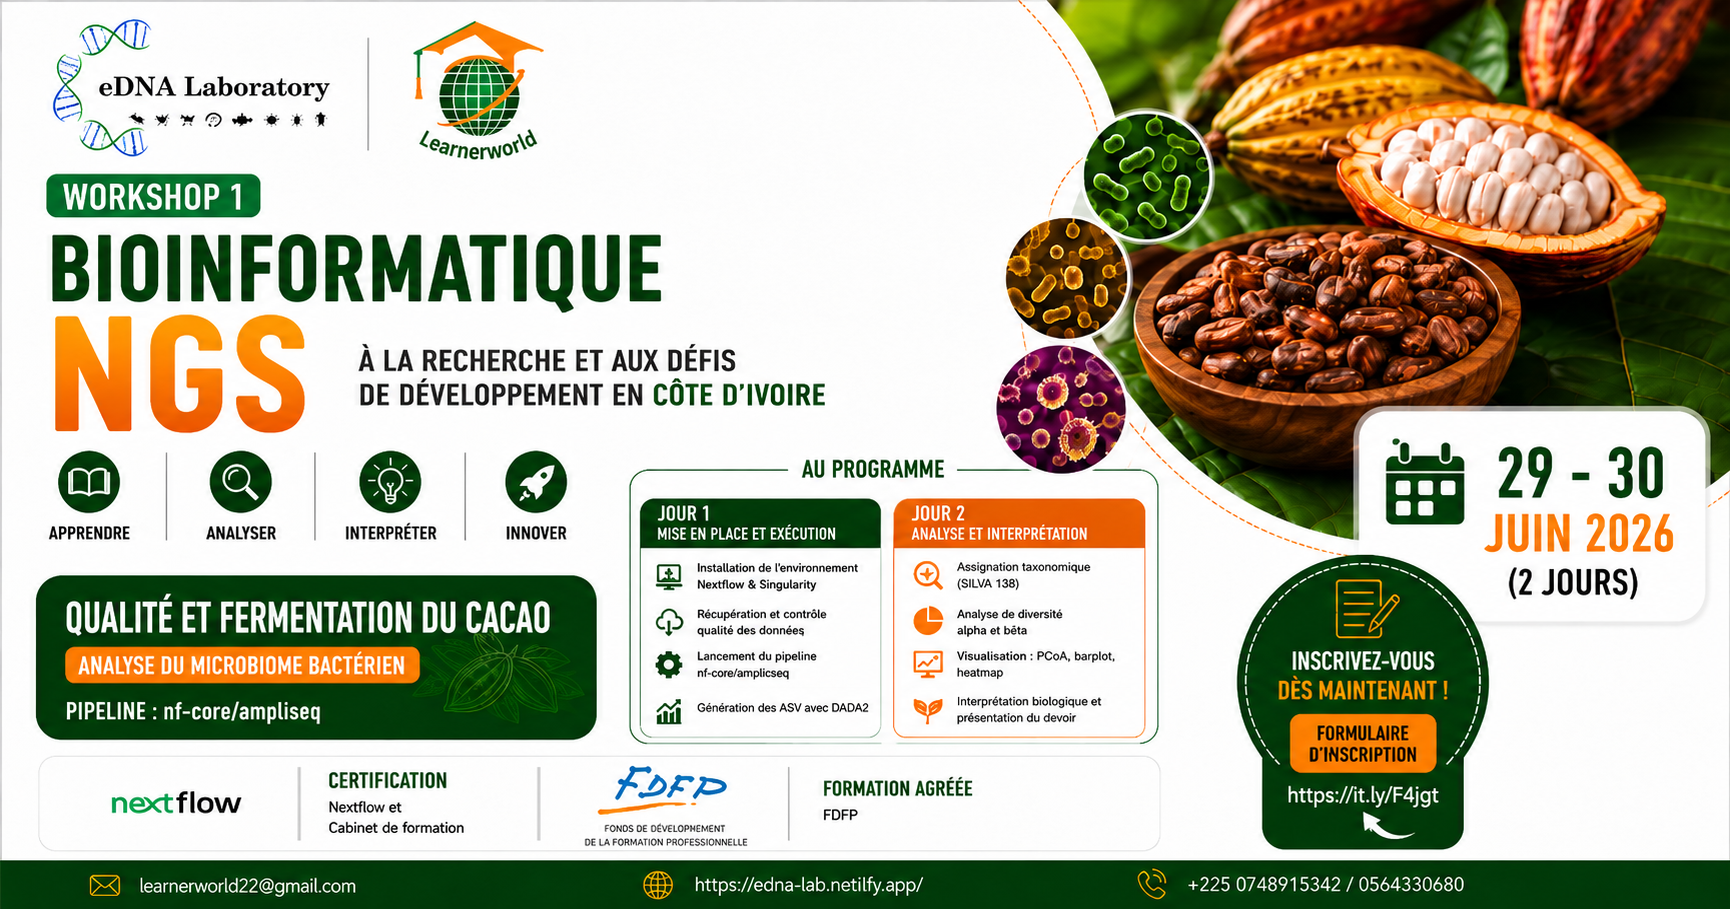
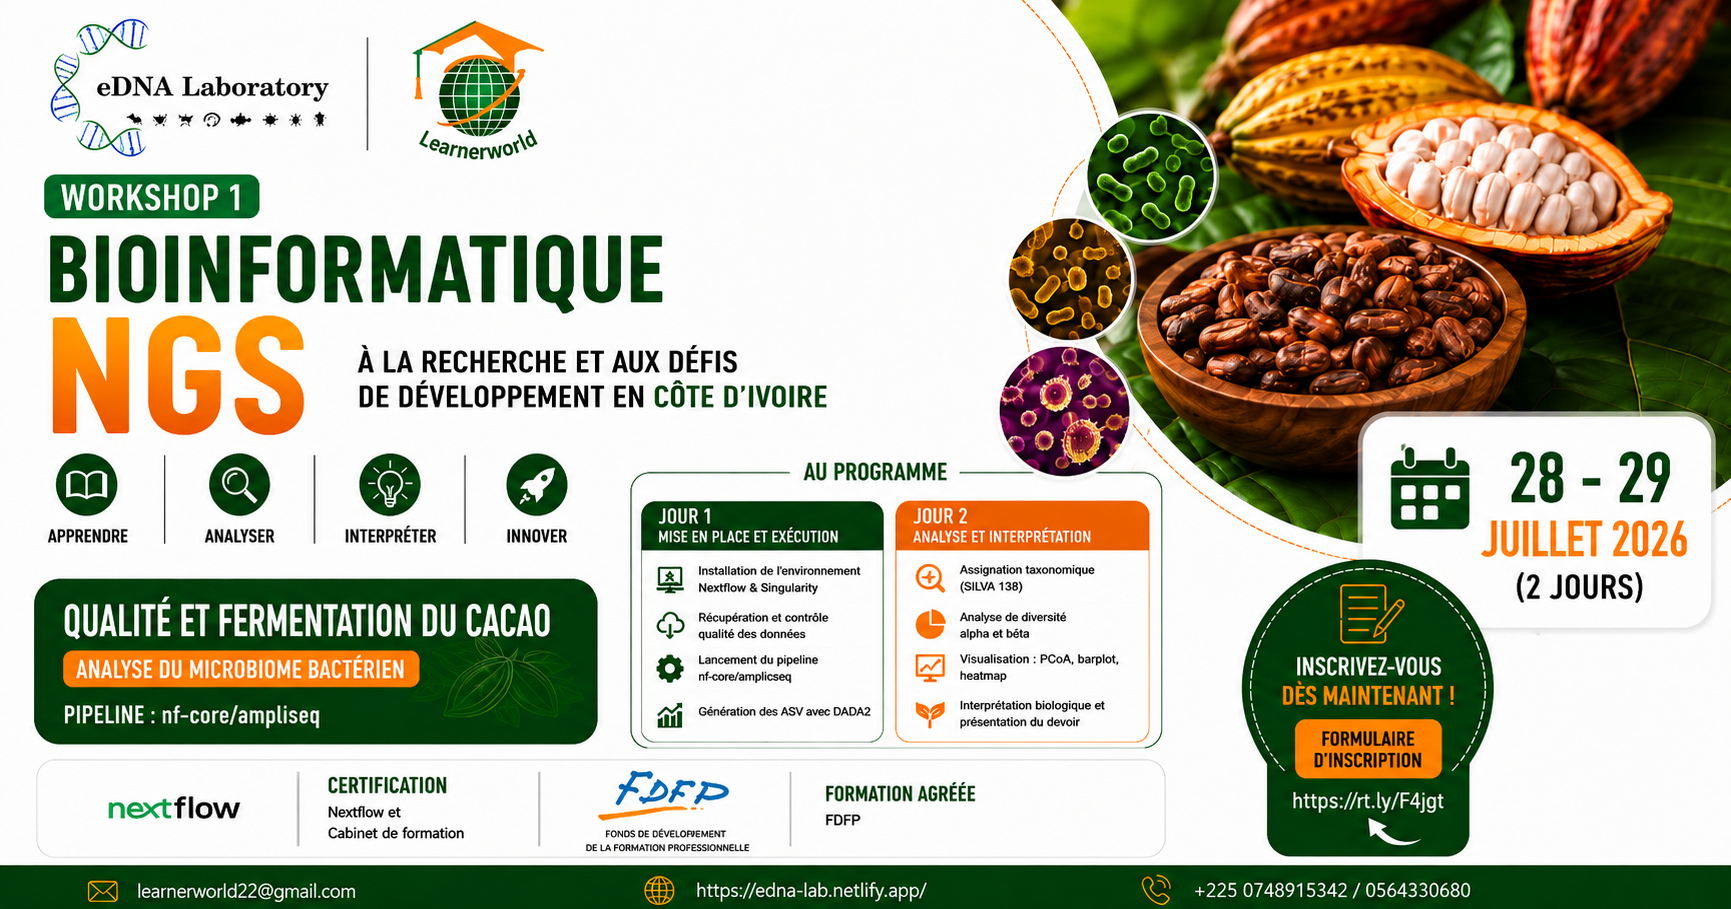
Atelier 1 reporté au 28-29 juil. + tarifs Early Bird + urgence inscription
- Date Atelier 1 : 29-30 juin → 28-29 juillet 2026 (brochure + index + JSON-LD + countdowns)
- Early Bird avant le 20 juillet : étudiant 30 000 FCFA, chercheur 50 000 FCFA
- Pack 3 ateliers -20% : étudiant 72 000 FCFA, chercheur 120 000 FCFA
- Bandeau Early Bird avec countdown temps restant sur index.html
- Prix barrés (anciens tarifs) dans les cartes workshop et pricing block
- Nouvelles affiches Amplicon 16S ARNr (portrait + paysage) mises à jour

diff --git a/index.html b/index.html
@@ -19,8 +19,8 @@
     "@context":"https://schema.org",
     "@type":"EducationEvent",
     "name":"Atelier 1 — Amplicon 16S ARNr : Analyse du Microbiome Bactérien",
-    "startDate":"2026-06-29",
-    "endDate":"2026-06-30",
+    "startDate":"2026-07-28",
+    "endDate":"2026-07-29",
     "eventStatus":"https://schema.org/EventScheduled",
     "eventAttendanceMode":"https://schema.org/OfflineEventAttendanceMode",
     "location":{"@type":"Place","name":"Université Nangui-Abrogoua","address":{"@type":"PostalAddress","addressLocality":"Abidjan","addressCountry":"CI"}},
@@ -1423,17 +1423,18 @@ footer {
             <div class="wc-spots">🔴 <strong>11 places restantes</strong> sur 15</div>
             <div class="wc-num wc-num-t" data-i18n="wk1_num">Atelier 1</div>
             <div class="wc-title" data-i18n="wk1_title">Amplicon 16S ARNr</div>
-            <div class="wc-date">📅 29–30 <span data-i18n="june">Juin</span> 2026</div>
+            <div class="wc-date">📅 28–29 <span data-i18n="july">Juillet</span> 2026</div>
             <div class="wc-pipe">nf-core/ampliseq · DADA2 · SILVA 138</div>
             <p class="wc-desc" data-i18n="wk1_desc">Microbiome bactérien du cacao fermenté en Côte d'Ivoire. Diversité alpha &amp; bêta, ordination PCoA.</p>
+            <div style="font-size:10px;font-weight:700;color:#F0A500;letter-spacing:0.07em;text-transform:uppercase;margin-bottom:6px;">⚡ Early Bird avant le 20 juil.</div>
             <div class="wc-price">
               <div class="wc-price-col">
                 <div class="wp-label" data-i18n="student">Étudiant</div>
-                <div class="wp-amount">50 000 FCFA</div>
+                <div class="wp-amount">30 000 FCFA</div>
               </div>
               <div class="wc-price-col">
-                <div class="wp-label" data-i18n="pro">Professionnel</div>
-                <div class="wp-amount">100 000 FCFA</div>
+                <div class="wp-label" data-i18n="pro">Chercheur</div>
+                <div class="wp-amount">50 000 FCFA</div>
               </div>
             </div>
             <a href="https://forms.gle/kicBrsVH9sR7fkA17" target="_blank" rel="noopener" class="wc-reg-btn">✍ <span data-i18n="reg_cta">S'inscrire</span></a>
@@ -1463,14 +1464,15 @@ footer {
             <div class="wc-date">📅 30–31 <span data-i18n="july">Juillet</span> 2026</div>
             <div class="wc-pipe">nf-core/rnaseq · DESeq2 · GO/KEGG</div>
             <p class="wc-desc" data-i18n="wk2_desc">Réponse immunitaire humaine au paludisme sévère à P. falciparum. Expression différentielle DESeq2.</p>
+            <div style="font-size:10px;font-weight:700;color:#F0A500;letter-spacing:0.07em;text-transform:uppercase;margin-bottom:6px;">⚡ Early Bird avant le 20 juil.</div>
             <div class="wc-price">
               <div class="wc-price-col">
                 <div class="wp-label" data-i18n="student">Étudiant</div>
-                <div class="wp-amount">50 000 FCFA</div>
+                <div class="wp-amount">30 000 FCFA</div>
               </div>
               <div class="wc-price-col">
-                <div class="wp-label" data-i18n="pro">Professionnel</div>
-                <div class="wp-amount">100 000 FCFA</div>
+                <div class="wp-label" data-i18n="pro">Chercheur</div>
+                <div class="wp-amount">50 000 FCFA</div>
               </div>
             </div>
             <a href="https://forms.gle/kicBrsVH9sR7fkA17" target="_blank" rel="noopener" class="wc-reg-btn">✍ <span data-i18n="reg_cta">S'inscrire</span></a>
@@ -1500,14 +1502,15 @@ footer {
             <div class="wc-date">📅 27–28 <span data-i18n="august">Août</span> 2026</div>
             <div class="wc-pipe">nf-core/mag · GTDB-Tk · CheckM</div>
             <p class="wc-desc" data-i18n="wk3_desc">Génomes assemblés &amp; dégradeurs de plastique · Lagune Ébrié, Côte d'Ivoire.</p>
+            <div style="font-size:10px;font-weight:700;color:#F0A500;letter-spacing:0.07em;text-transform:uppercase;margin-bottom:6px;">⚡ Early Bird avant le 20 juil.</div>
             <div class="wc-price">
               <div class="wc-price-col">
                 <div class="wp-label" data-i18n="student">Étudiant</div>
-                <div class="wp-amount">50 000 FCFA</div>
+                <div class="wp-amount">30 000 FCFA</div>
               </div>
               <div class="wc-price-col">
-                <div class="wp-label" data-i18n="pro">Professionnel</div>
-                <div class="wp-amount">100 000 FCFA</div>
+                <div class="wp-label" data-i18n="pro">Chercheur</div>
+                <div class="wp-amount">50 000 FCFA</div>
               </div>
             </div>
             <a href="https://forms.gle/kicBrsVH9sR7fkA17" target="_blank" rel="noopener" class="wc-reg-btn">✍ <span data-i18n="reg_cta">S'inscrire</span></a>
@@ -1518,33 +1521,53 @@ footer {
 
     <!-- Pricing block -->
     <div class="pricing-block reveal">
+
+      <!-- Early Bird Banner urgence -->
+      <div style="background:linear-gradient(135deg,rgba(240,165,0,0.18),rgba(240,165,0,0.06));border:2px solid rgba(240,165,0,0.5);border-radius:14px;padding:18px 22px;margin-bottom:18px;display:flex;align-items:center;gap:16px;flex-wrap:wrap;">
+        <div style="font-size:28px;flex-shrink:0;">⚡</div>
+        <div style="flex:1;min-width:200px;">
+          <div style="font-size:14px;font-weight:700;color:#F0A500;margin-bottom:3px;">Early Bird — Prix réduits jusqu'au 20 juillet 2026</div>
+          <div style="font-size:12px;color:rgba(255,255,255,0.65);">Étudiant : <strong style="color:#fff;">30 000 FCFA</strong> au lieu de 50 000 · Chercheur : <strong style="color:#fff;">50 000 FCFA</strong> au lieu de 100 000 · <span style="color:#F0A500;">−20% supplémentaire pour le pack 3 ateliers</span></div>
+        </div>
+        <div id="eb-countdown" style="background:rgba(240,165,0,0.15);border:1px solid rgba(240,165,0,0.3);border-radius:8px;padding:8px 14px;text-align:center;flex-shrink:0;">
+          <div style="font-size:10px;color:rgba(255,255,255,0.5);text-transform:uppercase;letter-spacing:0.07em;margin-bottom:3px;">Expire dans</div>
+          <div style="font-size:18px;font-weight:700;color:#F0A500;" id="eb-timer">--j --h</div>
+        </div>
+      </div>
+
       <div class="pricing-grid">
-        <div class="price-card std">
+        <div class="price-card std" style="border-color:rgba(240,165,0,0.3);">
+          <div style="font-size:10px;font-weight:700;color:#F0A500;letter-spacing:0.07em;text-transform:uppercase;margin-bottom:6px;">⚡ Early Bird</div>
           <div class="pc-profile" data-i18n="p1_prof">Étudiant (Master / Doctorat)</div>
-          <div class="pc-amount">50 000</div>
+          <div style="font-size:13px;text-decoration:line-through;opacity:0.4;color:#fff;margin-bottom:2px;">50 000</div>
+          <div class="pc-amount" style="color:#F0A500;">30 000</div>
           <div class="pc-unit">FCFA · <span data-i18n="per_ws">par atelier</span></div>
           <a href="https://forms.gle/kicBrsVH9sR7fkA17" target="_blank" rel="noopener" class="pc-btn" data-i18n="pc_btn">Choisir ce tarif →</a>
         </div>
-        <div class="price-card std">
-          <div class="pc-profile" data-i18n="p2_prof">Professionnel / Enseignant</div>
-          <div class="pc-amount">100 000</div>
+        <div class="price-card std" style="border-color:rgba(240,165,0,0.3);">
+          <div style="font-size:10px;font-weight:700;color:#F0A500;letter-spacing:0.07em;text-transform:uppercase;margin-bottom:6px;">⚡ Early Bird</div>
+          <div class="pc-profile" data-i18n="p2_prof">Chercheur / Enseignant</div>
+          <div style="font-size:13px;text-decoration:line-through;opacity:0.4;color:#fff;margin-bottom:2px;">100 000</div>
+          <div class="pc-amount" style="color:#F0A500;">50 000</div>
           <div class="pc-unit">FCFA · <span data-i18n="per_ws">par atelier</span></div>
           <a href="https://forms.gle/kicBrsVH9sR7fkA17" target="_blank" rel="noopener" class="pc-btn" data-i18n="pc_btn">Choisir ce tarif →</a>
         </div>
         <div class="price-card pack">
-          <div class="pack-ribbon">⭐ <span data-i18n="save20">Économisez 20%</span></div>
+          <div class="pack-ribbon">⭐ <span data-i18n="save20">−20% Pack 3</span></div>
           <div class="pc-profile" data-i18n="p3_prof">Pack 3 ateliers · Étudiant</div>
+          <div style="font-size:13px;text-decoration:line-through;opacity:0.4;color:#fff;margin-bottom:2px;">120 000</div>
+          <div class="pc-amount">72 000</div>
+          <div class="pc-unit">FCFA</div>
+          <div class="pc-eco" data-i18n="eco1">Économie : 18 000 FCFA</div>
+          <a href="https://forms.gle/kicBrsVH9sR7fkA17" target="_blank" rel="noopener" class="pc-btn" data-i18n="pc_btn">Choisir ce tarif →</a>
+        </div>
+        <div class="price-card pack">
+          <div class="pack-ribbon">🏛 FDFP · −20%</div>
+          <div class="pc-profile" data-i18n="p4_prof">Pack 3 ateliers · Chercheur</div>
+          <div style="font-size:13px;text-decoration:line-through;opacity:0.4;color:#fff;margin-bottom:2px;">240 000</div>
           <div class="pc-amount">120 000</div>
           <div class="pc-unit">FCFA</div>
-          <div class="pc-eco" data-i18n="eco1">Économie : 30 000 FCFA</div>
-          <a href="https://forms.gle/kicBrsVH9sR7fkA17" target="_blank" rel="noopener" class="pc-btn" data-i18n="pc_btn">Choisir ce tarif →</a>
-        </div>
-        <div class="price-card pack">
-          <div class="pack-ribbon">🏛 FDFP</div>
-          <div class="pc-profile" data-i18n="p4_prof">Pack 3 ateliers · Professionnel</div>
-          <div class="pc-amount">240 000</div>
-          <div class="pc-unit">FCFA</div>
-          <div class="pc-eco" data-i18n="eco2">Économie : 60 000 FCFA</div>
+          <div class="pc-eco" data-i18n="eco2">Économie : 30 000 FCFA</div>
           <a href="https://forms.gle/kicBrsVH9sR7fkA17" target="_blank" rel="noopener" class="pc-btn" data-i18n="pc_btn">Choisir ce tarif →</a>
         </div>
       </div>
@@ -2332,9 +2355,9 @@ function prefillQuote(service) {
   setTimeout(() => { const n = document.getElementById('f-name'); if (n) n.focus(); }, 400);
 }
 
-/* ── HERO COUNTDOWN (Atelier 1 — 29 juin 2026) ─── */
+/* ── HERO COUNTDOWN (Atelier 1 — 28 juillet 2026) ─── */
 (function(){
-  const target = new Date('2026-06-29T08:00:00');
+  const target = new Date('2026-07-28T08:00:00');
   const wrap = document.getElementById('hero-cd-wrap');
   function pad(n){ return String(n).padStart(2,'0'); }
   function tick(){
@@ -2355,7 +2378,7 @@ function prefillQuote(service) {
 /* ── COUNTDOWN ─────────────────────────────────── */
 (function() {
   const workshops = [
-    { id:'cd-wk1', date:'2026-06-29' },
+    { id:'cd-wk1', date:'2026-07-28' },
     { id:'cd-wk2', date:'2026-07-30' },
     { id:'cd-wk3', date:'2026-08-27' }
   ];
@@ -2368,6 +2391,22 @@ function prefillQuote(service) {
     else if (diff === 0) el.textContent = '🔴 Aujourd\'hui !';
     else el.style.display = 'none';
   });
+})();
+
+/* ── EARLY BIRD COUNTDOWN ──────────────────────── */
+(function(){
+  const deadline = new Date('2026-07-20T23:59:59');
+  const el = document.getElementById('eb-timer');
+  const wrap = document.getElementById('eb-countdown');
+  if(!el) return;
+  function tick(){
+    const diff = deadline - new Date();
+    if(diff <= 0){ if(wrap){ wrap.innerHTML='<div style="font-size:12px;color:rgba(255,255,255,0.5);">Offre expirée</div>'; } return; }
+    const d = Math.floor(diff/86400000);
+    const h = Math.floor((diff%86400000)/3600000);
+    el.textContent = d+'j '+String(h).padStart(2,'0')+'h';
+  }
+  tick(); setInterval(tick, 60000);
 })();
 
 /* ── FLIP CARD MOBILE TAP ──────────────────────── */

diff --git a/brochure_v3.html b/brochure_v3.html
@@ -238,21 +238,26 @@
       <div class="tp-desc">Santé publique, environnement, agroalimentaire — prise en charge FDFP possible pour les professionnels ivoiriens.</div>
     </div>
   </div>
+  <div style="display:inline-flex;align-items:center;gap:8px;background:rgba(240,165,0,0.15);border:1px solid rgba(240,165,0,0.4);border-radius:8px;padding:7px 14px;font-size:12px;font-weight:700;color:#F0A500;margin-bottom:14px;">
+    ⚡ Early Bird — Inscriptions avant le 20 juillet 2026
+  </div>
   <div class="price-row">
-    <div class="price-card">
+    <div class="price-card" style="border-color:rgba(240,165,0,0.3);">
       <div class="plabel">Étudiant · par atelier</div>
-      <div class="amount">50 000</div>
+      <div class="amount" style="font-size:20px;text-decoration:line-through;opacity:0.45;color:#fff;">50 000</div>
+      <div class="amount">30 000</div>
       <div class="sub">FCFA</div>
     </div>
-    <div class="price-card">
-      <div class="plabel">Professionnel · par atelier</div>
-      <div class="amount">100 000</div>
+    <div class="price-card" style="border-color:rgba(240,165,0,0.3);">
+      <div class="plabel">Chercheur · par atelier</div>
+      <div class="amount" style="font-size:20px;text-decoration:line-through;opacity:0.45;color:#fff;">100 000</div>
+      <div class="amount">50 000</div>
       <div class="sub">FCFA</div>
     </div>
     <div class="price-card pack-card">
       <div class="plabel">Pack 3 ateliers (−20%)</div>
-      <div class="amount">120 000</div>
-      <div class="sub">FCFA étudiant · 240 000 professionnel</div>
+      <div class="amount">72 000</div>
+      <div class="sub">FCFA étudiant · 120 000 chercheur</div>
     </div>
   </div>
 </header>
@@ -267,7 +272,7 @@
       <div>
         <div class="cal-num cal-num-t">Atelier 1</div>
         <div class="cal-title">Amplicon 16S ARNr</div>
-        <div class="cal-date">📅 29–30 Juin 2026</div>
+        <div class="cal-date">📅 28–29 Juillet 2026</div>
         <div class="cal-info">Microbiome bactérien du cacao fermenté en Côte d'Ivoire<br><span class="cal-pipe">nf-core/ampliseq · Base SILVA 138</span></div>
         <div class="cd-badge" id="br-cd1"></div>
       </div>
@@ -460,32 +465,77 @@
 <section class="section" style="background:rgba(255,255,255,0.01);border-top:1px solid rgba(255,255,255,0.05);">
   <p class="section-label">Tarification transparente</p>
   <h2 class="section-heading">Coût de la formation</h2>
-  <div class="tarif-grid">
-    <div class="tcard std">
-      <div class="tprof">Étudiant (Master / Doctorat)</div>
-      <div class="tamount">50 000</div>
-      <div class="tper">FCFA · par atelier</div>
+
+  <!-- Early Bird -->
+  <div style="border:2px solid rgba(240,165,0,0.45);border-radius:16px;padding:24px;margin-bottom:20px;background:rgba(240,165,0,0.06);">
+    <div style="display:flex;align-items:center;gap:10px;margin-bottom:16px;">
+      <span style="background:#F0A500;color:#0D1B2A;font-size:11px;font-weight:700;letter-spacing:0.08em;text-transform:uppercase;padding:4px 12px;border-radius:100px;">⚡ Early Bird</span>
+      <span style="font-size:13px;color:rgba(255,255,255,0.6);">Inscriptions reçues avant le <strong style="color:#F0A500;">20 juillet 2026</strong></span>
     </div>
-    <div class="tcard std">
-      <div class="tprof">Professionnel / Enseignant</div>
-      <div class="tamount">100 000</div>
-      <div class="tper">FCFA · par atelier</div>
-    </div>
-    <div class="tcard pack">
-      <div class="pack-ribbon">⭐ Économisez 20%</div>
-      <div class="tprof" style="margin-top:12px;">Pack 3 ateliers · Étudiant</div>
-      <div class="tamount tpack">120 000</div>
-      <div class="tper">FCFA</div>
-      <div class="teco">Économie : 30 000 FCFA</div>
-    </div>
-    <div class="tcard pack">
-      <div class="pack-ribbon">⭐ Prise en charge FDFP</div>
-      <div class="tprof" style="margin-top:12px;">Pack 3 ateliers · Professionnel</div>
-      <div class="tamount tpack">240 000</div>
-      <div class="tper">FCFA</div>
-      <div class="teco">Économie : 60 000 FCFA</div>
+    <div class="tarif-grid">
+      <div class="tcard std" style="border-color:rgba(240,165,0,0.3);">
+        <div class="tprof">Étudiant (Master / Doctorat)</div>
+        <div class="tamount" style="color:#F0A500;">30 000</div>
+        <div class="tper">FCFA · par atelier</div>
+        <div class="teco" style="margin-top:6px;">Au lieu de 50 000 FCFA</div>
+      </div>
+      <div class="tcard std" style="border-color:rgba(240,165,0,0.3);">
+        <div class="tprof">Chercheur / Enseignant</div>
+        <div class="tamount" style="color:#F0A500;">50 000</div>
+        <div class="tper">FCFA · par atelier</div>
+        <div class="teco" style="margin-top:6px;">Au lieu de 100 000 FCFA</div>
+      </div>
+      <div class="tcard pack">
+        <div class="pack-ribbon">⭐ −20% · Pack 3</div>
+        <div class="tprof" style="margin-top:12px;">Pack 3 ateliers · Étudiant</div>
+        <div class="tamount tpack">72 000</div>
+        <div class="tper">FCFA</div>
+        <div class="teco">Économie : 18 000 FCFA</div>
+      </div>
+      <div class="tcard pack">
+        <div class="pack-ribbon">⭐ Prise en charge FDFP</div>
+        <div class="tprof" style="margin-top:12px;">Pack 3 ateliers · Chercheur</div>
+        <div class="tamount tpack">120 000</div>
+        <div class="tper">FCFA</div>
+        <div class="teco">Économie : 30 000 FCFA</div>
+      </div>
     </div>
   </div>
+
+  <!-- Tarif Standard -->
+  <div style="border:1px solid rgba(255,255,255,0.08);border-radius:16px;padding:24px;margin-bottom:20px;">
+    <div style="margin-bottom:14px;">
+      <span style="background:rgba(255,255,255,0.08);color:rgba(255,255,255,0.6);font-size:11px;font-weight:700;letter-spacing:0.08em;text-transform:uppercase;padding:4px 12px;border-radius:100px;">Tarif Standard</span>
+      <span style="font-size:13px;color:rgba(255,255,255,0.4);margin-left:10px;">Après le 20 juillet 2026</span>
+    </div>
+    <div class="tarif-grid">
+      <div class="tcard std">
+        <div class="tprof">Étudiant (Master / Doctorat)</div>
+        <div class="tamount">50 000</div>
+        <div class="tper">FCFA · par atelier</div>
+      </div>
+      <div class="tcard std">
+        <div class="tprof">Chercheur / Enseignant</div>
+        <div class="tamount">100 000</div>
+        <div class="tper">FCFA · par atelier</div>
+      </div>
+      <div class="tcard pack">
+        <div class="pack-ribbon">⭐ Économisez 20%</div>
+        <div class="tprof" style="margin-top:12px;">Pack 3 ateliers · Étudiant</div>
+        <div class="tamount tpack">120 000</div>
+        <div class="tper">FCFA</div>
+        <div class="teco">Économie : 30 000 FCFA</div>
+      </div>
+      <div class="tcard pack">
+        <div class="pack-ribbon">⭐ Prise en charge FDFP</div>
+        <div class="tprof" style="margin-top:12px;">Pack 3 ateliers · Chercheur</div>
+        <div class="tamount tpack">240 000</div>
+        <div class="tper">FCFA</div>
+        <div class="teco">Économie : 60 000 FCFA</div>
+      </div>
+    </div>
+  </div>
+
   <div class="inclus-box">
     <p><strong>Inclus dans chaque atelier :</strong> Supports numériques complets (diaporamas + scripts + données) · Encadrement 15 jours (forum + séances de questions-réponses en direct) · Certificat double Nextflow + FDFP · Accès à la communauté LearnerWorld pendant 1 mois</p>
   </div>
@@ -580,7 +630,7 @@
 
 <script>
 (function(){
-  const ws=[{id:'br-cd1',date:'2026-06-29'},{id:'br-cd2',date:'2026-07-30'},{id:'br-cd3',date:'2026-08-27'}];
+  const ws=[{id:'br-cd1',date:'2026-07-28'},{id:'br-cd2',date:'2026-07-30'},{id:'br-cd3',date:'2026-08-27'}];
   const now=new Date();
   ws.forEach(w=>{
     const el=document.getElementById(w.id);
